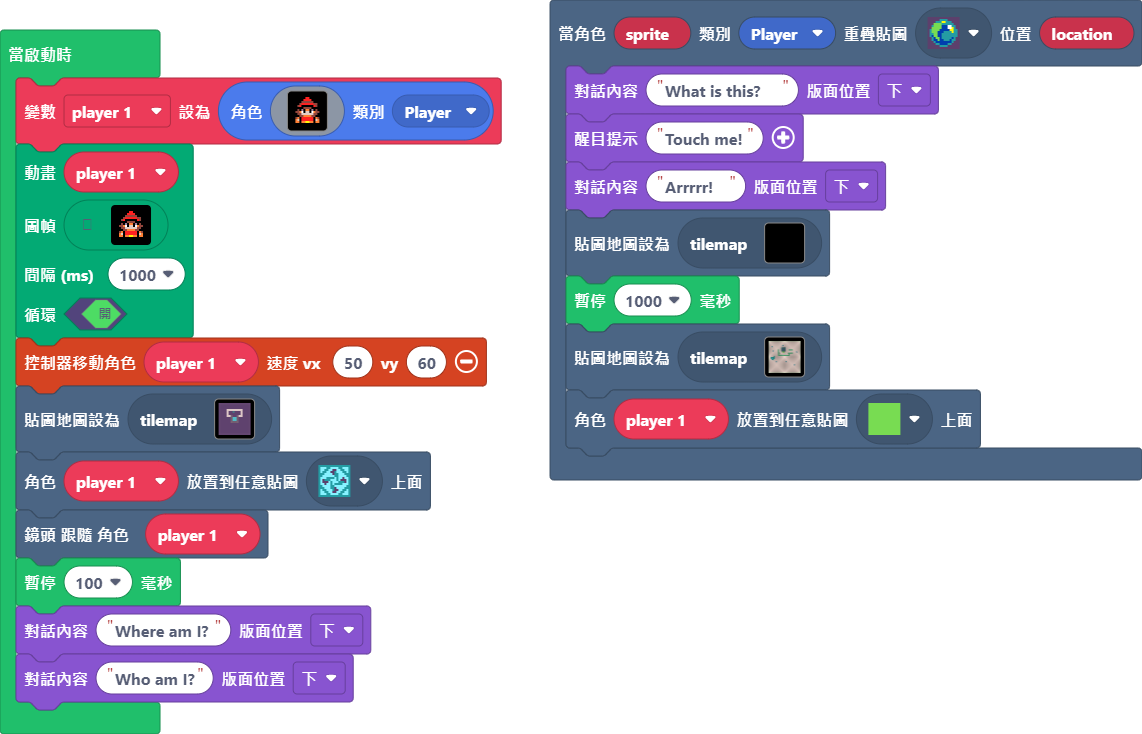
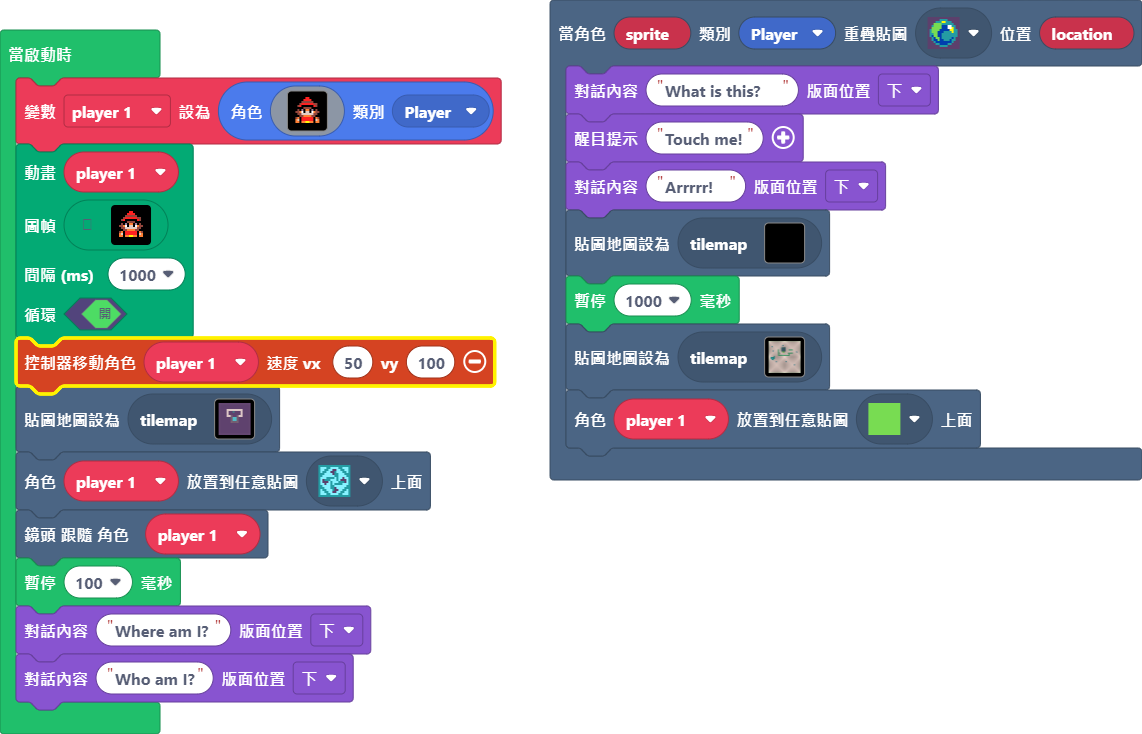
將Y軸移動速度改為100

Changed region(s): [[0.0, 0.4496, 0.4597, 0.5395]]

diff --git a/main.ts b/main.ts
@@ -100,7 +100,7 @@ player_1,
 1000,
 true
 )
-controller.moveSprite(player_1, 50, 60)
+controller.moveSprite(player_1, 50, 100)
 tiles.setCurrentTilemap(tilemap`層級`)
 tiles.placeOnRandomTile(player_1, sprites.dungeon.collectibleInsignia)
 scene.cameraFollowSprite(player_1)
